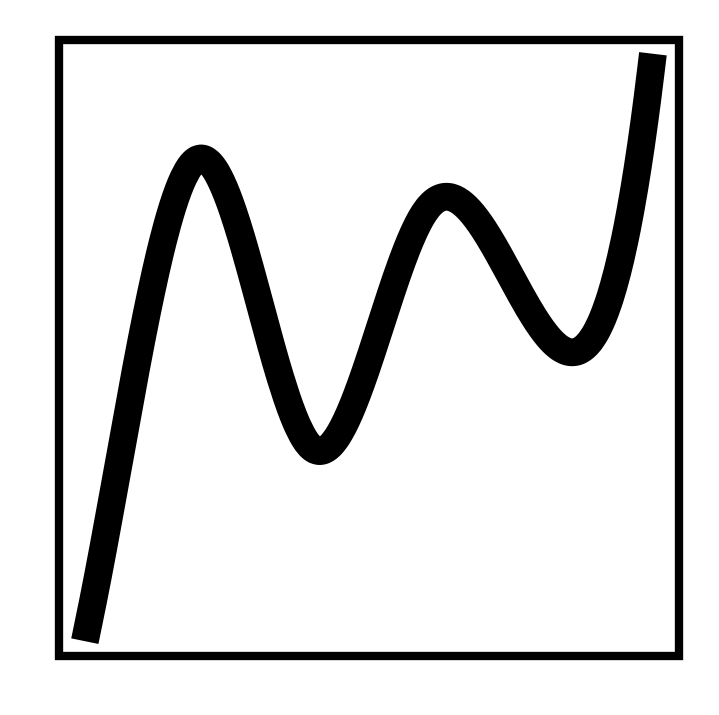
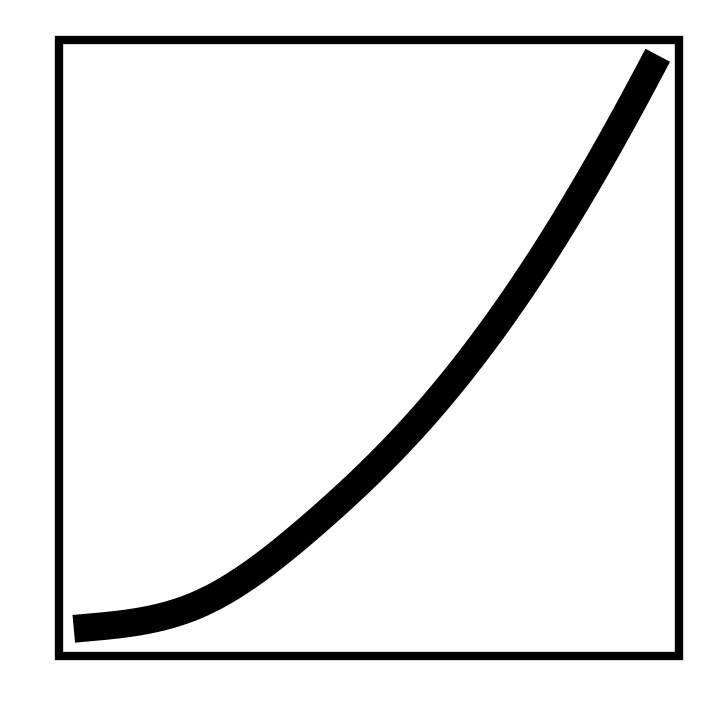
update

Changed region(s): [[0.0918, 0.0923, 0.9179, 0.9231], [0.8873, 0.0615, 0.9485, 0.1231]]

diff --git a/docs/conf.py b/docs/conf.py
@@ -16,7 +16,8 @@ author = 'Ziming Liu'
 # https://www.sphinx-doc.org/en/master/usage/configuration.html#general-configuration
 
 extensions = ["sphinx_rtd_theme",
-              "sphinx.ext.autodoc"
+              "sphinx.ext.autodoc",
+              "sphinx.ext.autosectionlabel"
               ]
 
 templates_path = ['_templates']

diff --git a/docs/index.rst b/docs/index.rst
@@ -6,21 +6,22 @@
 Welcome to Kolmogorov Aarnold Network (KAN) documentation!
 ==========================================================
 
-This documentation is for the paper "KAN: Kolmogorov-Arnold Networks" and the github repo can be found here.
-
 .. image:: kan_plot.png
+
+This documentation is for the paper "KAN: Kolmogorov-Arnold Networks" and the github repo can be found here.
+Kolmogorov-Arnold Networks, inspired by the Kolmogorov-Arnold representation theorem, are promising alternatives
+of Multi-Layer Preceptrons (MLPs). KANs have activation functions on edges, whereas MLPs have activation functions on nodes.
+This simple change makes KAN better than MLPs in terms of both accuracy and interpretability.
 
 Get the latest news at `CNN`_. (Add links to paper and github repo)
 
 .. _CNN: http://cnn.com/
 
-There are two ways to install kan. The first way is via pip install
+Installation
+------------
 
-.. code-block:: python
-
-   pip install pykan
-   
-The second way is via github
+Installation via github
+~~~~~~~~~~~~~~~~~~~~~~~~
 
 .. code-block:: python
 
@@ -28,6 +29,24 @@ The second way is via github
    cd pykan
    pip install -e .
    # pip install -r requirements.txt # install requirements
+
+
+Installation via PyPI (soon)
+~~~~~~~~~~~~~~~~~~~~~~~~~~~~
+
+.. code-block:: python
+
+   pip install pykan
+   
+
+Get started
+-----------
+
+* Quickstart: :ref:`hello-kan`
+* KANs in Action: :ref:`api-demo`, :ref:`examples`
+* API (advanced): :ref:`api`.
+
+
 
 .. toctree::
    :maxdepth: 1

diff --git a/docs/intro.rst b/docs/intro.rst
@@ -1,3 +1,5 @@
+.. _hello-kan:
+
 Hello, KAN!
 ===========
 

diff --git a/docs/demos.rst b/docs/demos.rst
@@ -1,3 +1,5 @@
+.. _api-demo:
+
 API Demos
 ---------
 

diff --git a/docs/examples.rst b/docs/examples.rst
@@ -1,3 +1,5 @@
+.. _examples:
+
 Examples
 --------
 

diff --git a/docs/modules.rst b/docs/modules.rst
@@ -1,3 +1,5 @@
+.. _api:
+
 API
 ===
 
